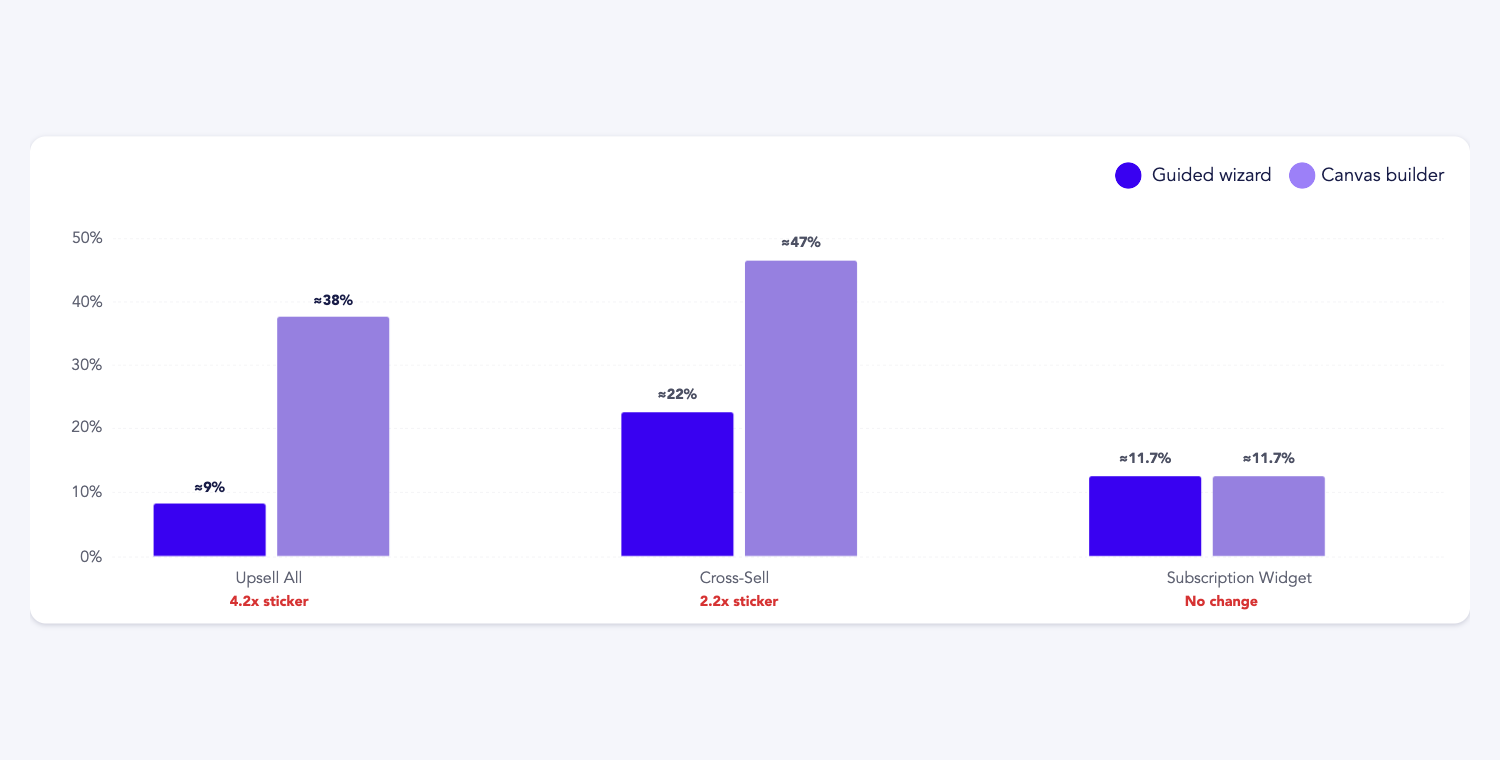
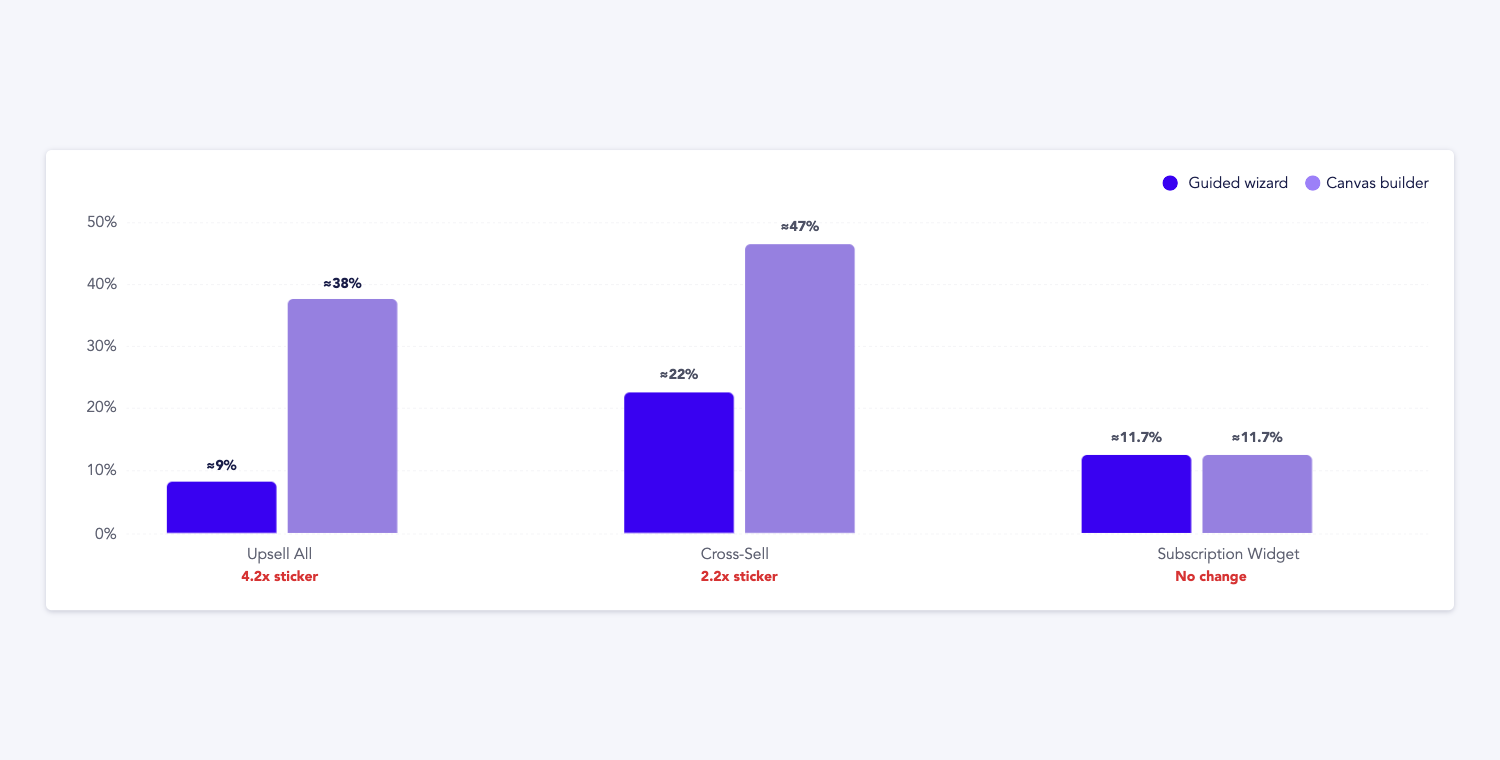
Refine animated chart layout

diff --git a/AnimatedBarChart.framer.tsx b/AnimatedBarChart.framer.tsx
@@ -15,7 +15,10 @@ const ACCENT = "#3901F1"
 const CANVAS = "#9680E0"
 const STICKER = "#D63333"
 const DESIGN_WIDTH = 2004
-const DESIGN_HEIGHT = 678.2
+const DESIGN_HEIGHT = 654.64
+const CARD_RADIUS = 8
+const BAR_RADIUS = 8
+const SHADOW_GUTTER = 16
 
 interface AnimatedBarChartProps {
     duration: number
@@ -73,9 +76,9 @@ const barGroups: Array<{ className: string; height: number; bars: BarSpec[] }> =
 ]
 
 const stickers = [
-    { className: "xSticker", label: "2.2x sticker", left: 932, top: 635, width: 110, zIndex: 1, textAlign: "left" as const },
-    { className: "xSticker2", label: "4.2x sticker", left: 278, top: 635, width: 110, zIndex: 2, textAlign: "left" as const },
-    { className: "noChange", label: "No change", left: 1607, top: 635, width: 102, zIndex: 3, textAlign: "right" as const },
+    { className: "xSticker", label: "2.2x sticker", left: 932, top: 594.64, width: 110, zIndex: 1, textAlign: "left" as const },
+    { className: "xSticker2", label: "4.2x sticker", left: 278, top: 594.64, width: 110, zIndex: 2, textAlign: "left" as const },
+    { className: "noChange", label: "No change", left: 1607, top: 594.64, width: 102, zIndex: 3, textAlign: "right" as const },
 ]
 
 const labels = ["Upsell All", "Cross-Sell", "Subscription Widget"]
@@ -90,7 +93,9 @@ function useFitScale(ref: React.RefObject<HTMLDivElement | null>) {
         const measure = () => {
             const rect = el.getBoundingClientRect()
             if (rect.width <= 0 || rect.height <= 0) return
-            setScale(Math.min(rect.width / DESIGN_WIDTH, rect.height / DESIGN_HEIGHT))
+            const availableWidth = Math.max(0, rect.width - SHADOW_GUTTER * 2)
+            const availableHeight = Math.max(0, rect.height - SHADOW_GUTTER * 2)
+            setScale(Math.min(availableWidth / DESIGN_WIDTH, availableHeight / DESIGN_HEIGHT))
         }
 
         measure()
@@ -106,8 +111,8 @@ function ToggleSelector({ color }: { color: string }) {
     return (
         <div
             style={{
-                height: 37,
-                width: 37,
+                height: 22,
+                width: 22,
                 position: "relative",
                 borderRadius: 33.16,
                 overflow: "hidden",
@@ -127,9 +132,9 @@ function ToggleSelector({ color }: { color: string }) {
                     style={{
                         position: "absolute",
                         height: "80%",
-                        width: "44.32%",
+                        width: "44.55%",
                         top: "10%",
-                        right: "5.68%",
+                        right: "5.45%",
                         bottom: "10%",
                         left: "50%",
                         boxShadow: "0px 1.8421878814697266px 7.37px rgba(25, 29, 72, 0.2)",
@@ -152,7 +157,7 @@ function LegendElement({ color, children, gap = 14.7 }: { color: string; childre
                     style={{
                         alignSelf: "stretch",
                         position: "relative",
-                        lineHeight: "36.84px",
+                        lineHeight: "22px",
                         flexShrink: 0,
                     }}
                 >
@@ -162,6 +167,7 @@ function LegendElement({ color, children, gap = 14.7 }: { color: string; childre
                     style={{
                         width: 2571.7,
                         position: "relative",
+                        fontSize: 25.79,
                         lineHeight: "36.84px",
                         color: "#6e7381",
                         display: "none",
@@ -171,6 +177,35 @@ function LegendElement({ color, children, gap = 14.7 }: { color: string; childre
                     Optional element-level helper text lorem ipsum dolor sit.
                 </div>
                 <div style={{ width: 2571.7, height: 29.5, position: "relative", display: "none", flexShrink: 0 }} />
+            </div>
+        </div>
+    )
+}
+
+function Frame3860Legend() {
+    return (
+        <div
+            style={{
+                width: "100%",
+                position: "relative",
+                display: "flex",
+                flexDirection: "column",
+                alignItems: "flex-end",
+                textAlign: "left",
+                fontSize: 22,
+                color: INK,
+                fontFamily: "Avenir, Arial, sans-serif",
+            }}
+        >
+            <div style={{ display: "flex", alignItems: "flex-start", gap: 24 }}>
+                <div style={{ display: "flex", alignItems: "center", justifyContent: "flex-end" }}>
+                    <LegendElement color={ACCENT}>Guided wizard</LegendElement>
+                </div>
+                <div style={{ display: "flex", alignItems: "center", justifyContent: "flex-end" }}>
+                    <LegendElement color="#9C80F8" gap={8}>
+                        Canvas builder
+                    </LegendElement>
+                </div>
             </div>
         </div>
     )
@@ -286,13 +321,13 @@ export default function AnimatedBarChart(props: AnimatedBarChartProps) {
                         height: "100%",
                         position: "relative",
                         boxShadow: "0px 1.8421878814697266px 7.37px rgba(25, 29, 72, 0.2)",
-                        borderRadius: 22.11,
+                        borderRadius: CARD_RADIUS,
                         backgroundColor: background,
                         display: "flex",
                         flexDirection: "column",
                         alignItems: "center",
-                        justifyContent: "center",
-                        padding: "36px 36px 48px",
+                        justifyContent: "flex-start",
+                        padding: 36,
                         boxSizing: "border-box",
                         isolation: "isolate",
                         gap: 18.4,
@@ -308,33 +343,14 @@ export default function AnimatedBarChart(props: AnimatedBarChartProps) {
                             display: "flex",
                             flexDirection: "column",
                             alignItems: "flex-start",
-                            gap: 56,
+                            gap: 32,
                             zIndex: 0,
                             flexShrink: 0,
                             fontSize: 25.79,
                             color: INK,
                         }}
                     >
-                        <div
-                            style={{
-                                alignSelf: "stretch",
-                                display: "flex",
-                                flexDirection: "column",
-                                alignItems: "flex-end",
-                                flexShrink: 0,
-                            }}
-                        >
-                            <div style={{ display: "flex", alignItems: "flex-start", gap: 24 }}>
-                                <div style={{ display: "flex", alignItems: "center", justifyContent: "flex-end" }}>
-                                    <LegendElement color={ACCENT}>Guided wizard</LegendElement>
-                                </div>
-                                <div style={{ display: "flex", alignItems: "center", justifyContent: "flex-end" }}>
-                                    <LegendElement color="#9C80F8" gap={8}>
-                                        Canvas builder
-                                    </LegendElement>
-                                </div>
-                            </div>
-                        </div>
+                        <Frame3860Legend />
 
                         <div
                             style={{
@@ -429,7 +445,7 @@ export default function AnimatedBarChart(props: AnimatedBarChartProps) {
                                                         height: bar.height,
                                                         width: bar.width,
                                                         position: "relative",
-                                                        borderRadius: "3.68px 3.68px 0 0",
+                                                        borderRadius: `${BAR_RADIUS}px ${BAR_RADIUS}px 0 0`,
                                                         backgroundColor: bar.color,
                                                         transformOrigin: "bottom center",
                                                         willChange: "transform",

diff --git a/AnimatedBarChart.preview.html b/AnimatedBarChart.preview.html
@@ -12,7 +12,8 @@
       --canvas: #9680e0;
       --sticker: #d63333;
       --design-width: 2004;
-      --design-height: 678.2;
+      --design-height: 654.64;
+      --shadow-gutter: 16;
       --scale: 1;
     }
 
@@ -39,7 +40,7 @@
 
     .scale {
       width: 2004px;
-      height: 678.2px;
+      height: 654.64px;
       position: absolute;
       left: 50%;
       top: 50%;
@@ -52,13 +53,13 @@
       height: 100%;
       position: relative;
       box-shadow: 0px 1.8421878814697266px 7.37px rgba(25, 29, 72, 0.2);
-      border-radius: 22.11px;
+      border-radius: 8px;
       background-color: #fff;
       display: flex;
       flex-direction: column;
       align-items: center;
-      justify-content: center;
-      padding: 36px 36px 48px;
+      justify-content: flex-start;
+      padding: 36px;
       isolation: isolate;
       gap: 18.4px;
       text-align: left;
@@ -71,19 +72,23 @@
       display: flex;
       flex-direction: column;
       align-items: flex-start;
-      gap: 56px;
+      gap: 32px;
       z-index: 0;
       flex-shrink: 0;
       font-size: 25.79px;
       color: var(--ink);
     }
 
-    .frameWrapper {
-      align-self: stretch;
+    .legendFrameParent {
+      width: 100%;
+      position: relative;
       display: flex;
       flex-direction: column;
       align-items: flex-end;
-      flex-shrink: 0;
+      text-align: left;
+      font-size: 22px;
+      color: var(--ink);
+      font-family: Avenir, Arial, sans-serif;
     }
 
     .frameGroup {
@@ -111,8 +116,8 @@
     }
 
     .toggleSelector {
-      height: 37px;
-      width: 37px;
+      height: 22px;
+      width: 22px;
       position: relative;
       border-radius: 33.16px;
       overflow: hidden;
@@ -139,9 +144,9 @@
     .rectangle10Copy32 {
       position: absolute;
       height: 80%;
-      width: 44.32%;
+      width: 44.55%;
       top: 10%;
-      right: 5.68%;
+      right: 5.45%;
       bottom: 10%;
       left: 50%;
       box-shadow: 0px 1.8421878814697266px 7.37px rgba(25, 29, 72, 0.2);
@@ -159,7 +164,7 @@
     .guidedWizard {
       align-self: stretch;
       position: relative;
-      line-height: 36.84px;
+      line-height: 22px;
       flex-shrink: 0;
     }
 
@@ -172,6 +177,7 @@
     }
 
     .optionalElementLevelHelper {
+      font-size: 25.79px;
       line-height: 36.84px;
       color: #6e7381;
     }
@@ -308,7 +314,7 @@
     .barChild3 {
       width: 156px;
       position: relative;
-      border-radius: 3.68px 3.68px 0 0;
+      border-radius: 8px 8px 0 0;
       transform-origin: bottom center;
       transform: scaleY(0);
       animation: grow-up 1700ms cubic-bezier(0.16, 1, 0.3, 1) forwards;
@@ -439,7 +445,7 @@
       height: 24px;
       position: absolute;
       margin: 0;
-      top: 635px;
+      top: 594.64px;
       line-height: 24px;
       font-weight: 900;
       display: inline-block;
@@ -527,7 +533,7 @@
     <div class="scale" id="scale">
       <main class="graph">
         <div class="frameParent">
-          <div class="frameWrapper">
+          <div class="legendFrameParent">
             <div class="frameGroup">
               <div class="toggleSelectorListElementWrapper">
                 <div class="toggleSelectorListElement">
@@ -612,7 +618,9 @@
     const viewport = document.getElementById("viewport")
     const setScale = () => {
       const rect = viewport.getBoundingClientRect()
-      const scale = Math.min(rect.width / 2004, rect.height / 678.2)
+      const availableWidth = Math.max(0, rect.width - 32)
+      const availableHeight = Math.max(0, rect.height - 32)
+      const scale = Math.min(availableWidth / 2004, availableHeight / 654.64)
       document.documentElement.style.setProperty("--scale", scale)
     }
 
